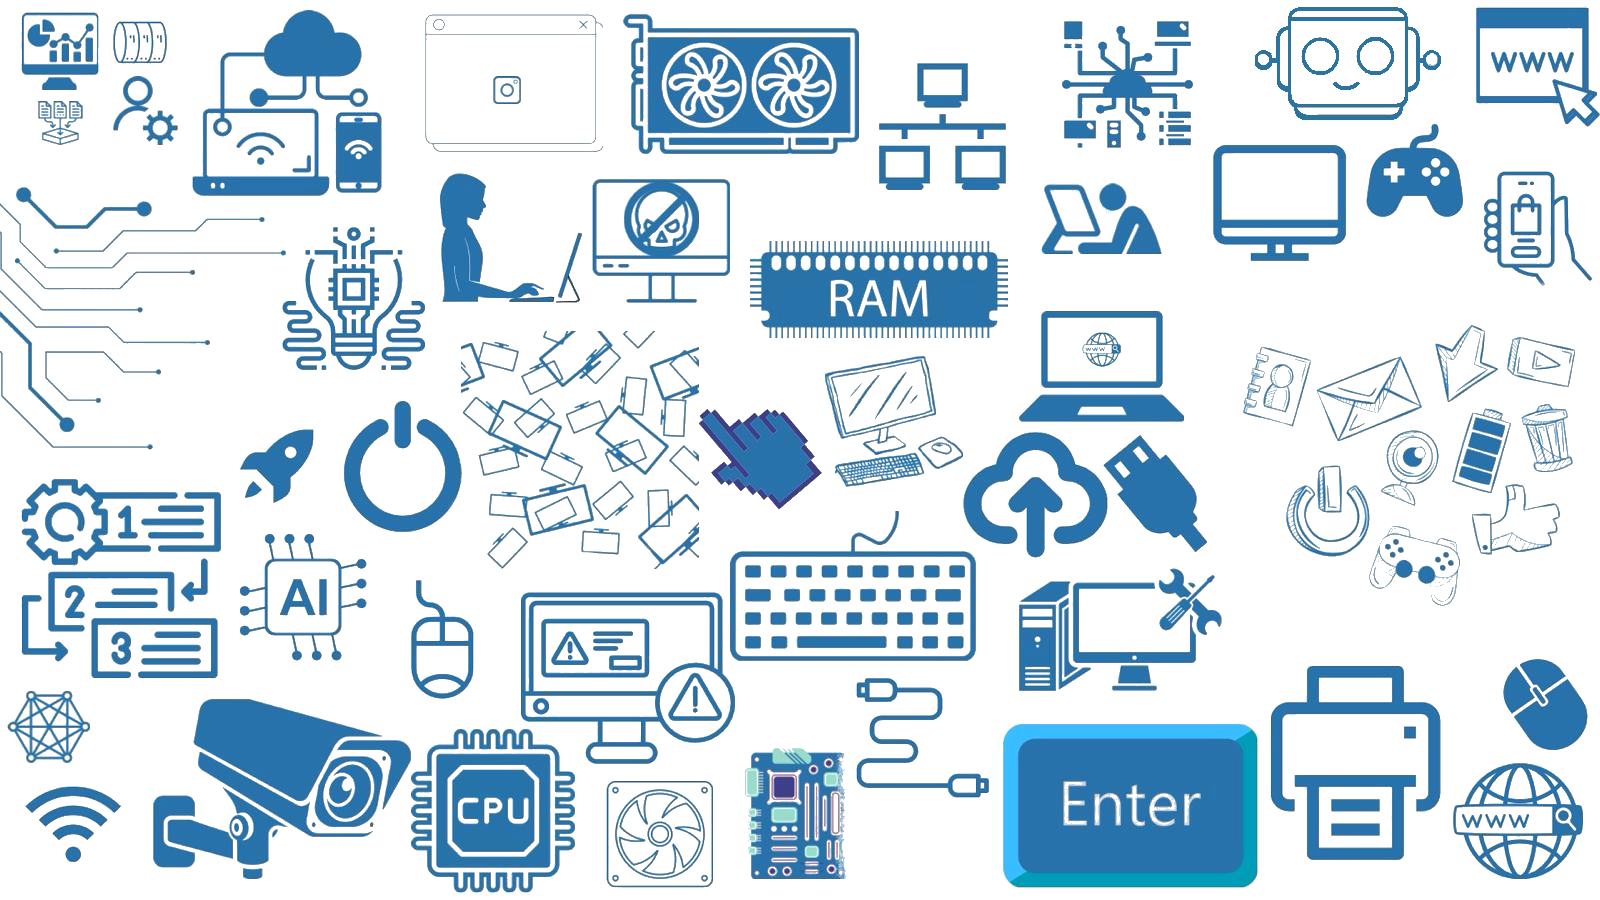
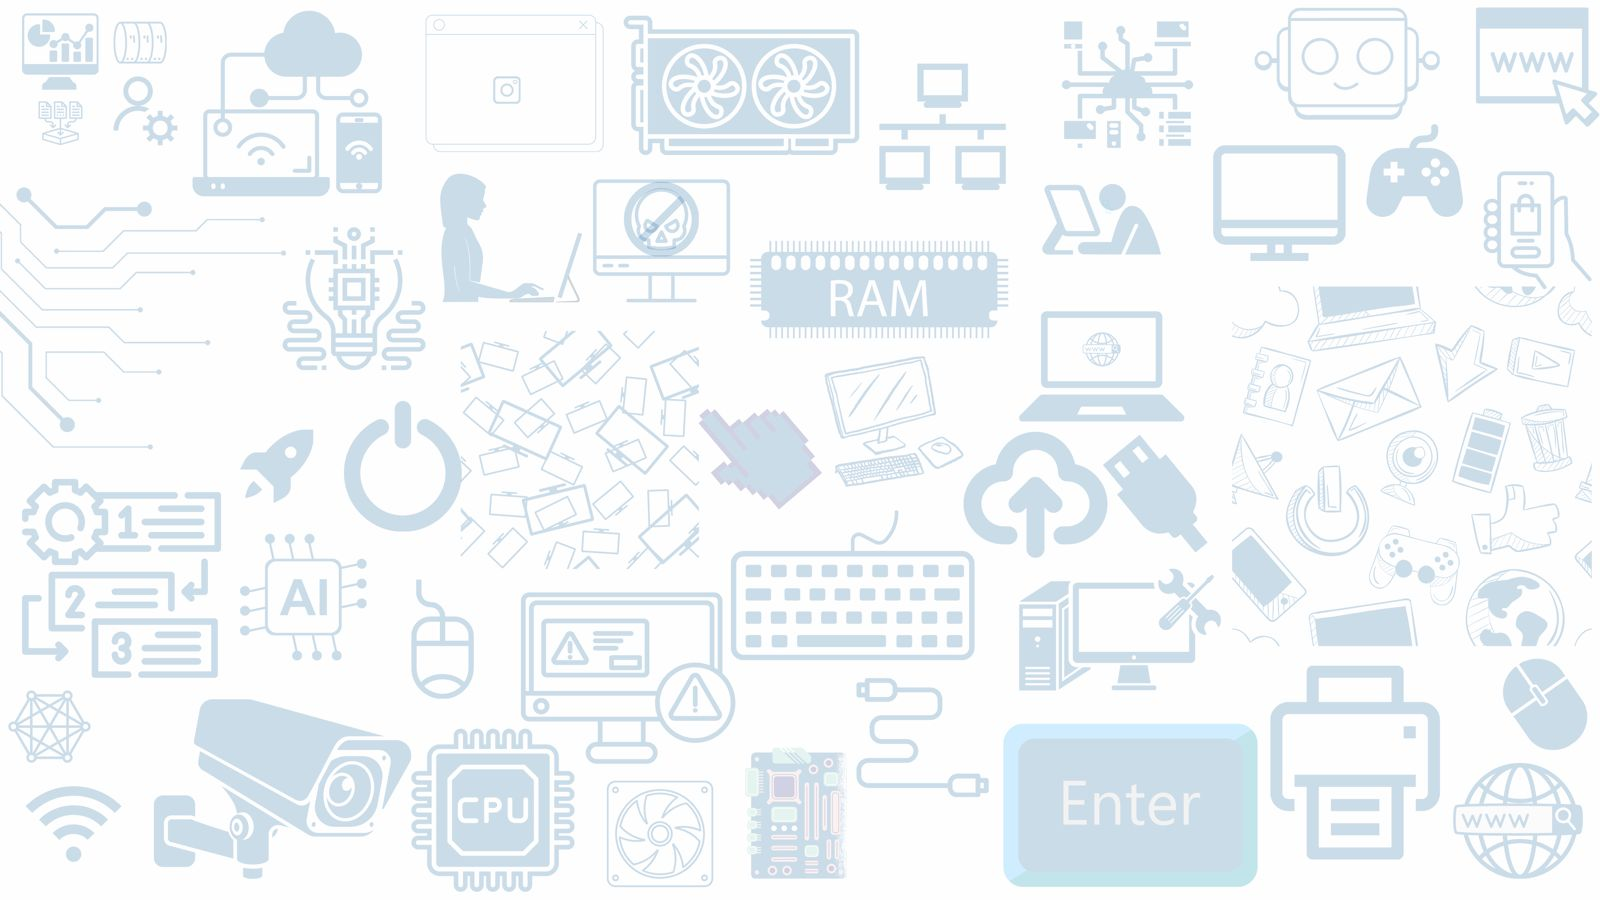
Varias mudancas
-Criado o HTML de login
-Criado boa parte da pagina de login
-Ajustado o background
-Definido o Fundo padrao de cada pagina

diff --git a/index.html b/index.html
@@ -1,86 +1,84 @@
 <!DOCTYPE html>
 <html lang="pt-br">
-<head>
-    <meta charset="UTF-8">
-    <meta name="viewport" content="width=device-width, initial-scale=1.0">
+  <head>
+    <meta charset="UTF-8" />
+    <meta name="viewport" content="width=device-width, initial-scale=1.0" />
     <title>Tecnosupri</title>
-    <link rel="shortcut icon" type="imagex/png" href="estilos/Imagem_Loja.ico">
+    <link
+      rel="shortcut icon"
+      type="imagex/png"
+      href="estilos/Imagem_Loja.ico"
+    />
     <style>
-        body{
-            /*background-image: url(estilos/Background.jpeg);*/
-            background-color:bisque;
-            background-position: center;
-            display:flex;
-            justify-content: center;
-        }
-        
-        #container{
-            width: 70%;
-            height: 800px;
-            justify-content: center;
+      body {
+        background-image: url(estilos/Background.jpeg);
+        background-position: center;
+        display: flex;
+        justify-content: center;
+      }
 
-            
-            border: 2px solid black;
+      #container {
+        width: 70%;
+        height: 800px;
+        justify-content: center;
+      }
 
-        }
-        
-        .cabecalho{
-            display:flex;
-            align-items: center;
-            width: 100%;
-            height: 5%;
-            background-color: white;
-            margin-bottom: 50px;
-            
+      .cabecalho {
+        display: flex;
+        width: 100%;
+        height: 5%;
+      }
 
-            border: 2px solid black;
-            border-radius:5px ;
-            margin: auto;
-            }
-            
-            .cabecalho p {
-                flex-direction:column;
-                display: flex;
-                margin: 5px;
-                
-            }
+      .cabecalho a {
+        align-items: end;
+        margin-left: auto;
+      }
 
-            .middle{
-                
-                width: 100%;
-                height: 10%;
-            }
-            .middle img{
-                background-color:aliceblue ;
-            }
-            .corpo{
-                flex-direction:column;
-                display: flex;
-                width: 100%;
-                height: 70%;
-                background-color: white;
-                
-            border: 2px solid black;
-            border-radius:5px ;
-            
-            }
+      .middle {
+        width: 100%;
+        height: 10%;
+      }
+
+      .corpo {
+        align-items: center;
+        flex-direction: column;
+        display: flex;
+        width: 100%;
+        height: 70%;
+        background-color: white;
+
+        border: 2px solid black;
+        border-radius: 5px;
+      }
     </style>
-</head>
-    <body>
-        <div id="container">
-            <div class="cabecalho">
-                <p>Login</p>
-                <p>/</p>
-                <p>Cadastro</p>
-        
-            </div>
+  </head>
+  <body>
+    <div id="container">
+      <div class="cabecalho">
+        <a href="login.html">
+          <img
+            src="estilos/bitmap.png"
+            alt="Imagem de Login"
+            width="100%"
+            height="100%"
+          />
+        </a>
+      </div>
 
-            <div class="middle">
-                <img src="estilos/Imagem_Middle.png" alt="Imagem de fundo" width="30%" height="90%">
-            </div>
-            <div class="corpo">
-                <p>teste</p>
-            </div>
-        </div>
-    </body>
+      <div class="middle">
+        <a href="index.html">
+          <img
+            src="estilos/Imagem_Middle.png"
+            alt="Imagem de fundo"
+            width="30%"
+            height="90%"
+          />
+        </a>
+      </div>
+
+      <div class="corpo">
+        <p>teste</p>
+      </div>
+    </div>
+  </body>
 </html>

diff --git a/login.html b/login.html
@@ -1,0 +1,135 @@
+<!DOCTYPE html>
+<html lang="pt-br">
+  <head>
+    <meta charset="UTF-8" />
+    <meta name="viewport" content="width=device-width, initial-scale=1.0" />
+    <title>Tecnosupri</title>
+    <link
+      rel="shortcut icon"
+      type="imagex/png"
+      href="estilos/Imagem_Loja.ico"
+    />
+    <style>
+      body {
+        background-image: url(estilos/Background.jpeg);
+        background-position: center;
+        display: flex;
+        justify-content: center;
+      }
+
+      #container {
+        width: 70%;
+        height: 800px;
+        justify-content: center;
+      }
+
+      .cabecalho {
+        display: flex;
+        width: 100%;
+        height: 5%;
+      }
+
+      .cabecalho img {
+        align-items: flex-end;
+        margin-left: auto;
+      }
+
+      .middle {
+        width: 100%;
+        height: 10%;
+      }
+      .corpo {
+        flex-direction: column;
+        display: flex;
+        display: flex;
+        width: 100%;
+        height: 70%;
+        background-color: white;
+
+        border: 2px solid black;
+        border-radius: 5px;
+      }
+
+      .corpo img {
+        align-items: center;
+        margin: auto;
+        margin-bottom: 0%;
+      }
+
+      .corpo form {
+        align-items: center;
+        margin: auto;
+        margin-top: 0%;
+        margin-bottom: 30%;
+      }
+    </style>
+  </head>
+  <body>
+    <div id="container">
+      <div class="cabecalho">
+        <img
+          src="estilos/bitmap.png"
+          alt="Imagem de Login"
+          width="4.30%"
+          height="100%"
+        />
+      </div>
+
+      <div class="middle">
+        <a href="index.html">
+          <img
+            src="estilos/Imagem_Middle.png"
+            alt="Imagem de fundo"
+            width="30%"
+            height="90%"
+          />
+        </a>
+      </div>
+      <div class="corpo">
+        <img
+          src="estilos/bitmap.png"
+          alt="Imagem de Login"
+          width="20%"
+          height="30%"
+        />
+        <form action="/submit_form" method="post">
+          <fieldset>
+            <legend>Login:</legend>
+            <label for="email">E-mail:</label><br />
+            <input type=" id="email" name="email"><br />
+            <label for="password">Senha:</label><br />
+            <input type="password" id="password" name="password" /><br />
+          </fieldset>
+          <input
+            type="submit"
+            value=""
+            style="
+              background-image: url(estilos/bt_registrar_login.png);
+              width: 40%;
+              height: 30%;
+              background-size: cover;
+              background-position: center;
+              border: none;
+              background-color: white;
+              float: left;
+            "
+          />
+          <input
+            type="submit"
+            value=""
+            style="
+              background-image: url(estilos/bt_enviar_login.png);
+              width: 40%;
+              height: 30%;
+              background-size: cover;
+              background-position: center;
+              border: none;
+              background-color: white;
+              float: right;
+            "
+          />
+        </form>
+      </div>
+    </div>
+  </body>
+</html>
